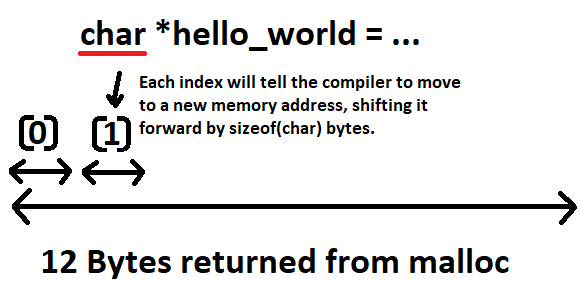
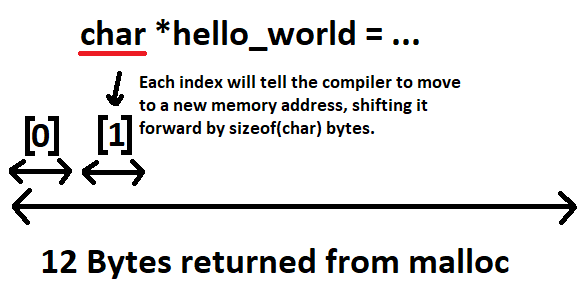
Extend examples with a generic T

Changed region(s): [[0.1552, 0.3972, 0.2483, 0.5674], [0.031, 0.3972, 0.1241, 0.5674]]

diff --git a/C/pointer_arithmatic.md b/C/pointer_arithmatic.md
@@ -14,6 +14,10 @@ in pointer arithmatic, what's really happening is,
 a_pointer + (a_number * sizeof(*a_pointer))
 ```
 
+When you have a `T*` and you index from that, you access memory locations as if it contained an array of contiguous elements of `T`.
+
+![](./images/pointer_arithmatic_2.png)
+
 # Pointer Arithmatic and `malloc`
 
 Pointer arithmatic can play an important role in `malloc`. For example if we use `malloc` to store "Hello World",
